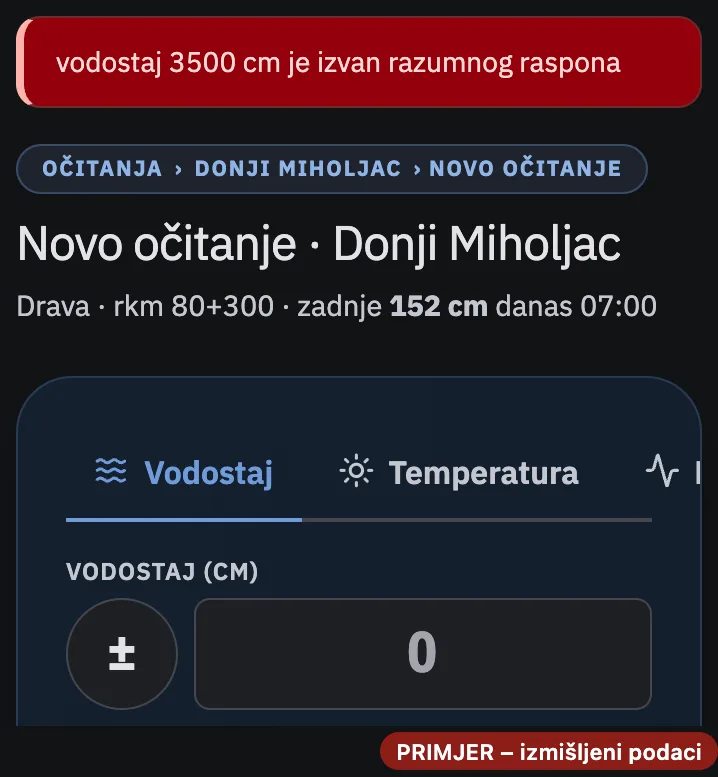
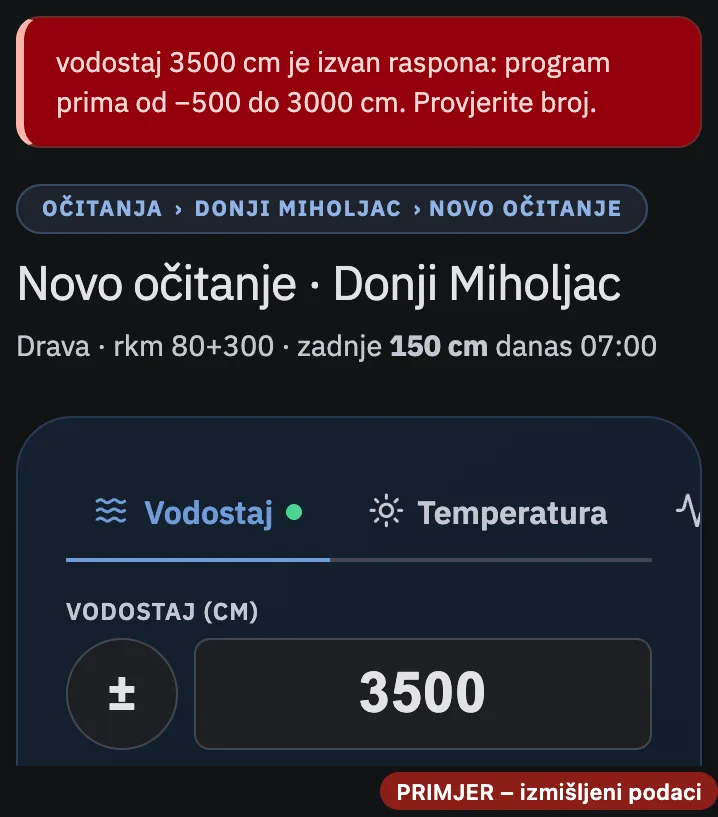
Pomoć, Očitanja: poruka s rasponom, oborina i plan za rad bez signala
Odlomak o vrijednostima izvan raspona sad kaže da poruka navodi raspon
koji program prima i da upisano ostaje u obrascu; slika je nova. Na popis
raspona dodana je oborina (0 do 300 mm). Uz rad bez signala stoji da je
u planu lagana aplikacija za mobitel, ali je zasad nema.

diff --git a/web/templates/pomoc.html b/web/templates/pomoc.html
@@ -911,6 +911,9 @@
       vezu. Zapišite vodostaj i vrijeme očitanja, a upišite ih kad se spojite. U obrascu tada
       <em>Vrijeme očitanja</em> promijenite na vrijeme kad ste letvu stvarno očitali. Kad je to više od
       pola sata prije upisa, program pita je li vrijeme točno; potvrdite.</p>
+    <p>U planu je lagana aplikacija za mobitel koja će očitanje spremiti i bez signala i poslati ga
+      sama kad se veza vrati, pa olovka i papir više neće trebati. Zasad je nema, pa vrijedi
+      postupak iznad.</p>
     <p>Ostala polja obrasca:</p>
     <ul>
       <li><strong>Što ovo očitanje jest</strong> — zadano je <em>obična napomena</em>. Drugo odaberite
@@ -999,13 +1002,15 @@
       <li>vodostaj od −500 do 3000 cm,</li>
       <li>temperatura vode od −5 do 45 °C,</li>
       <li>protok od 0 do 100 000 m³/s,</li>
+      <li>oborina od 0 do 300 mm,</li>
       <li>vrijeme najviše sat unaprijed.</li>
     </ul>
     <p>Kad vrijednost izvan toga <strong>upišete</strong> u obrazac, program očitanje ne sprema.
-      Obrazac se vrati prazan, s porukom na vrhu, npr. <em>vodostaj 3500 cm je izvan razumnog
-      raspona</em>. Upišite očitanje ponovno, s točnom vrijednošću. Vrijednost izvan raspona koju
+      Na vrhu obrasca piše što je krivo i koji raspon program prima, npr. <em>vodostaj 3500 cm je
+      izvan raspona: program prima od −500 do 3000 cm. Provjerite broj.</em> Sve što ste upisali
+      ostaje u obrascu: ispravite broj i spremite ponovno. Vrijednost izvan raspona koju
       <strong>zalijepite</strong> program isto ne upiše i kaže zašto.</p>
-    {{template "pomocSlika" (list "ocitanja-izvan-raspona" "Obrazac novog očitanja za Donji Miholjac na mobitelu: na vrhu crvena poruka da je vodostaj 3500 cm izvan razumnog raspona, a polje vodostaja je opet prazno." "359")}}
+    {{template "pomocSlika" (list "ocitanja-izvan-raspona" "Obrazac novog očitanja za Donji Miholjac na mobitelu: na vrhu crvena poruka da je vodostaj 3500 cm izvan raspona i da program prima od −500 do 3000 cm, a u polju vodostaja i dalje stoji 3500." "359")}}
     <p>Ono što stiže <strong>samo</strong> — satno preuzimanje s javnih stranica i telemetrije te
       uvoz iz evidencije BP16 i tablice centra — program izvan raspona ne upisuje:</p>
     <ul>
